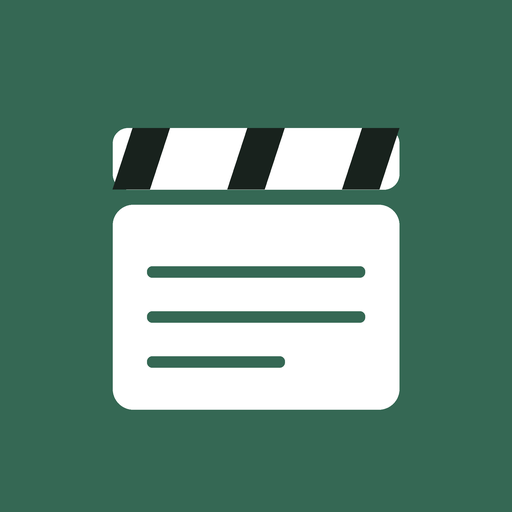
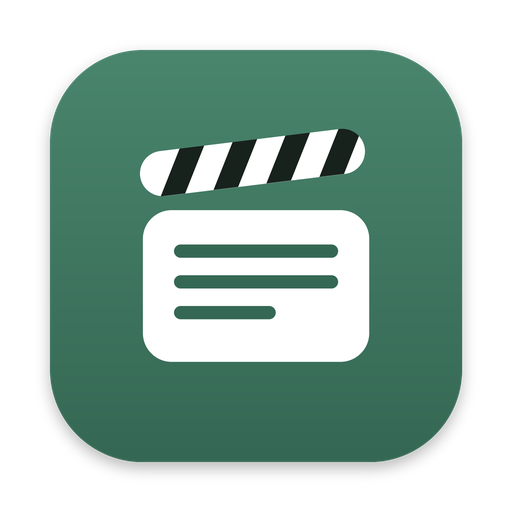
오디션 노트 아이콘을 둥근 모양으로 바꾸기
Claude-Session: https://claude.ai/code/session_012nXVJZjVddLznE9BgbcCXV

diff --git a/audition/index.html b/audition/index.html
@@ -11,8 +11,8 @@
 <meta name="apple-mobile-web-app-title" content="오디션 노트">
 <meta name="theme-color" content="#ffffff">
 <meta name="referrer" content="no-referrer">
-<link rel="apple-touch-icon" href="icon-180.png">
-<link rel="icon" href="icon-192.png">
+<link rel="apple-touch-icon" href="icon-180.png?v=2">
+<link rel="icon" href="icon-192.png?v=2">
 <link rel="preconnect" href="https://fonts.googleapis.com">
 <link rel="preconnect" href="https://fonts.gstatic.com" crossorigin>
 <link rel="stylesheet" href="https://fonts.googleapis.com/css2?family=Gowun+Batang:wght@700&family=IBM+Plex+Mono:wght@500&family=IBM+Plex+Sans+KR:wght@400;500;600&display=swap">

diff --git a/audition/sw.js b/audition/sw.js
@@ -1,5 +1,5 @@
 // 오디션 노트 화면 파일만 저장해 두고, 인터넷이 될 땐 항상 새 화면을 받아요. 기록은 여기 저장하지 않아요.
-const V = 'an-app-v1';
+const V = 'an-app-v2';
 const ASSETS = ['./', 'index.html', 'manifest.webmanifest', 'icon-180.png', 'icon-192.png', 'icon-512.png'];
 self.addEventListener('install', e => {
   e.waitUntil(caches.open(V).then(c => c.addAll(ASSETS.map(u => new Request(u, { cache: 'reload' })))));
